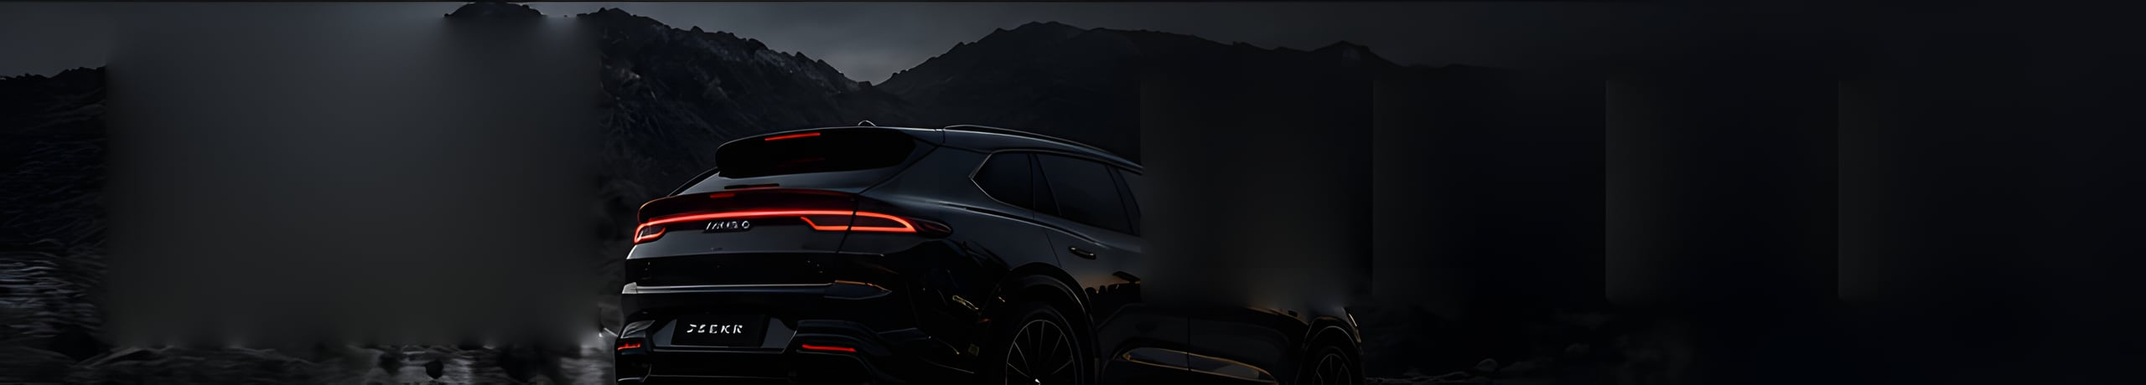
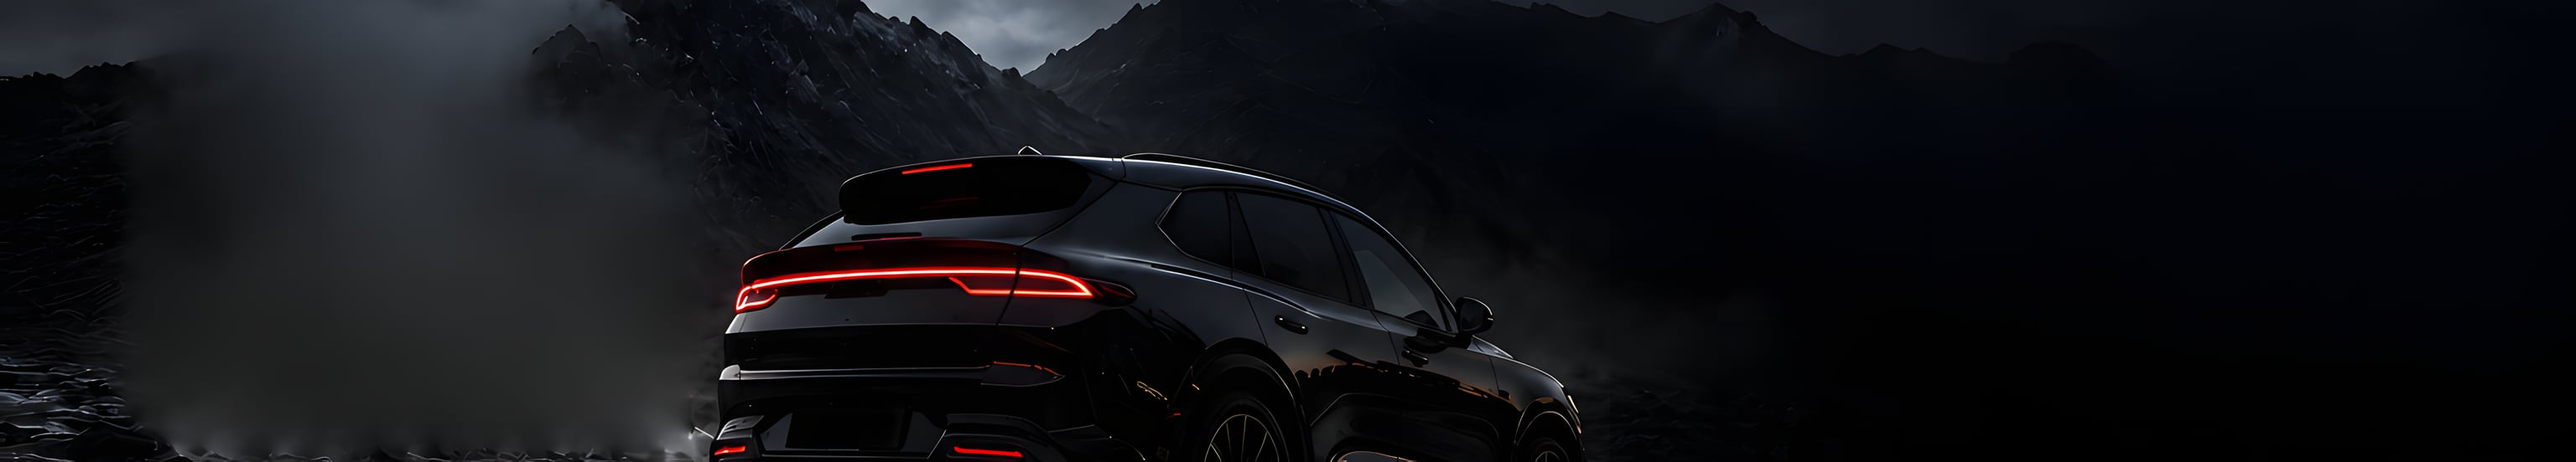
Replace photos with high-res AI recreations, mobile hero image

diff --git a/src/App.tsx b/src/App.tsx
@@ -186,7 +186,10 @@ export default function App() {
     <div className="page" id="top">
       {/* ---------- 1. Шапка + первый экран ---------- */}
       <section className="hero">
-        <img className="hero__bg" src="/img/hero.jpg" alt="Li Auto на набережной на закате" />
+        <picture>
+          <source media="(max-width: 1099px)" srcSet="/img/hero-m.jpg" />
+          <img className="hero__bg" src="/img/hero.jpg" alt="Li Auto на набережной на закате" fetchPriority="high" />
+        </picture>
         <header className="header">
           <a href="#top" className="logo">
             ALISH CARS

diff --git a/src/index.css b/src/index.css
@@ -327,7 +327,6 @@ select {
   color: #bdb9b3;
 }
 .hero__tagline {
-  display: none;
   width: 30px;
   height: 1px;
   background: rgba(255, 255, 255, 0.35);
@@ -934,7 +933,12 @@ html:not(.is-desktop) .hero {
   flex-direction: column;
 }
 html:not(.is-desktop) .hero__bg {
-  object-position: 72% center;
+  top: auto;
+  bottom: 0;
+  height: 72%;
+  object-position: 62% 60%;
+  -webkit-mask-image: linear-gradient(180deg, transparent 0, #000 22%);
+  mask-image: linear-gradient(180deg, transparent 0, #000 22%);
 }
 html:not(.is-desktop) .hero::before {
   background: linear-gradient(
